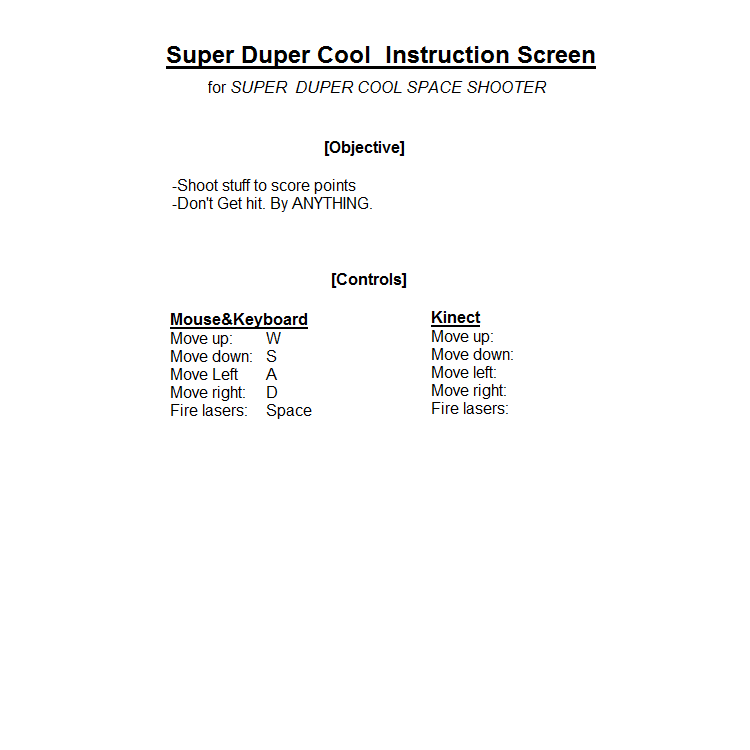
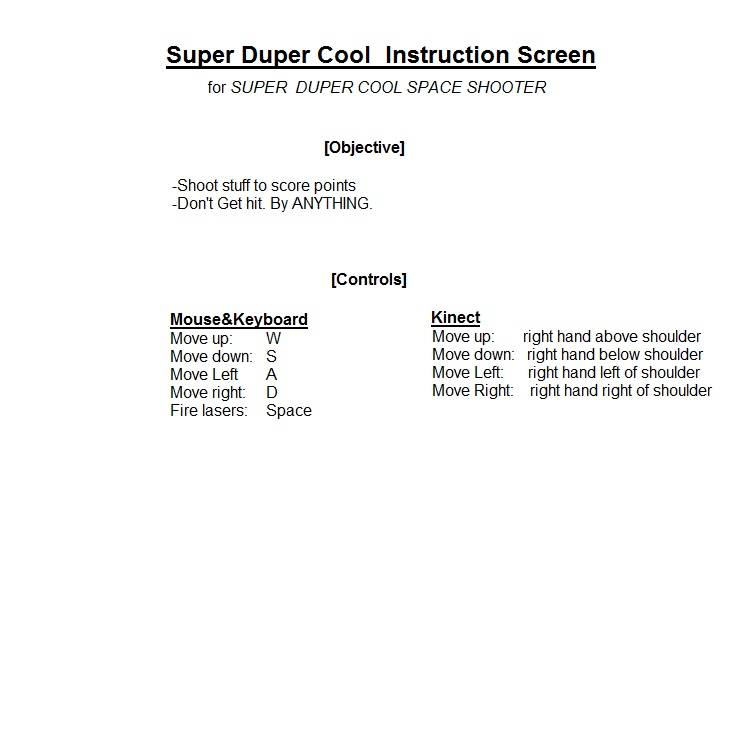
more stuff to kinect

Changed region(s): [[0.552, 0.4293, 0.9507, 0.552]]

diff --git a/2Dshootertutorial/2Dshootertutorial/classes/Player.cs b/2Dshootertutorial/2Dshootertutorial/classes/Player.cs
@@ -30,7 +30,6 @@ namespace _2Dshootertutorial {
         public int health,score,laserDamage;
         SoundManager sm;
         private Kinect kinect;
-        double spineX;
 
         //Defualt Constructor
         public Player(){
@@ -51,6 +50,7 @@ namespace _2Dshootertutorial {
             score = 0;
             sm = new SoundManager();
             kinect = new Kinect();
+            
         }
 
         //load content
@@ -58,11 +58,11 @@ namespace _2Dshootertutorial {
             texture = Content.Load<Texture2D>("Artwork/player");
             bulletTexture = Content.Load<Texture2D>("Artwork/playerbullet");
             sm.LoadContent(Content);
-            kinect = new Kinect();
-            kinect.initialize();
-            //kinect.start();
-            spineX = kinect.player.Joints[JointType.Spine].Position.X;
 
+            //if (Defualt.Default.UsingKinect) {
+                kinect = new Kinect();
+                kinect.initialize();
+            //}
 
         }
 
@@ -99,14 +99,33 @@ namespace _2Dshootertutorial {
                 moveDown = false;
                 firebullets = false;
 
-                if (kinect.player.Joints[JointType.Spine].Position.X > (spineX + 10)) {
+                if (kinect.player == null) return;
+                
+                //moving the player right
+                if (kinect.player.Joints[JointType.HandRight].Position.X > (kinect.player.Joints[JointType.ShoulderRight].Position.X + .1) ) {
                     moveRight = true;
                 }
-                else if (kinect.player.Joints[JointType.Spine].Position.X < (spineX + 10)) {
+               
+                //movign the player left
+                else if (kinect.player.Joints[JointType.HandRight].Position.X < (kinect.player.Joints[JointType.ShoulderRight].Position.X - .1)) {
                     moveLeft = true;
                 }
 
-                
+                //moving the player UP
+                else if (kinect.player.Joints[JointType.HandRight].Position.Y > (kinect.player.Joints[JointType.ShoulderRight].Position.Y +.125)) {
+                    moveUp = true;
+                }
+
+                //movign the player Down
+                else if (kinect.player.Joints[JointType.HandRight].Position.Y < (kinect.player.Joints[JointType.ShoulderRight].Position.Y - .125)) {
+                    moveDown = true;
+                }
+
+               
+
+
+
+                firebullets = true;
             }
 
             //Move ship if applicable

diff --git a/2Dshootertutorial/2Dshootertutorial/Game1.cs b/2Dshootertutorial/2Dshootertutorial/Game1.cs
@@ -30,7 +30,7 @@ namespace _2Dshootertutorial {
         SoundManager sm = new SoundManager(); //sound manager 
        
         //Game varibles
-        int gamestate = 0;
+        int gamestate = 1;
         bool gameoverflag = false;
 
         public Game1() {
@@ -78,7 +78,7 @@ namespace _2Dshootertutorial {
             //When in the splash screen
             if (gamestate == 0) {
                 if (gameTime.TotalGameTime.TotalSeconds > 4) {
-                    MediaPlayer.Play(sm.bgm1); //play background music
+                    //MediaPlayer.Play(sm.bgm1); //play background music
                     gamestate = 1;
                 }
             }
@@ -93,7 +93,7 @@ namespace _2Dshootertutorial {
                 UpdateCollisions(gameTime);                     //update all collisions
                 hud.Update(p.score, p.health);                  //update the hud
 
-                if (gameTime.TotalGameTime.TotalSeconds % 210 == 209) { MediaPlayer.Stop(); MediaPlayer.Play(sm.bgm1); }
+                //if (gameTime.TotalGameTime.TotalSeconds % 210 == 209) { MediaPlayer.Stop(); MediaPlayer.Play(sm.bgm1); }
             }
 
             //Game wait between game state and gameover state
@@ -104,8 +104,6 @@ namespace _2Dshootertutorial {
                 if (gameTime.TotalGameTime.Seconds % 9 == 0)
                     New_Game();
             }
-
-           
 
             base.Update(gameTime);
         }
@@ -296,7 +294,7 @@ namespace _2Dshootertutorial {
             gameoverflag = false;
 
             //Play song
-            MediaPlayer.Play(sm.bgm1);
+            //MediaPlayer.Play(sm.bgm1);
         }
     
     }

diff --git a/2Dshootertutorial/2Dshootertutorial/Kinect.cs b/2Dshootertutorial/2Dshootertutorial/Kinect.cs
@@ -81,8 +81,6 @@ namespace KinectTracking
             kinectSensor.SkeletonFrameReady += new EventHandler<SkeletonFrameReadyEventArgs>(kinectSkeletonFrameReadyCallback);
             kinectSensor.Start();
             kinectSensor.ElevationAngle = elevationAngle;
-
-           
         }
 
         // Process skeleton data
